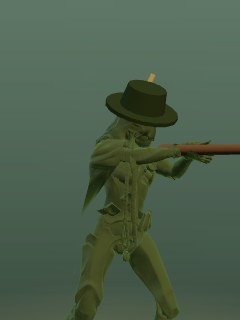
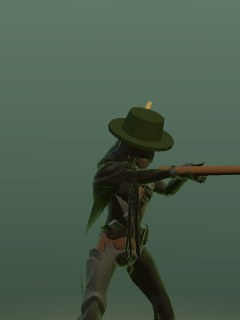
Figuren-Feinschliff: Kleidung umfärben statt einfarbig
Die umgebauten Helden behalten ihre Textur: Kleidung wird beim Laden
umgefärbt (recolor.ts, Helligkeit bleibt, Haut und Gesicht bleiben),
statt die ganze Figur einfarbig zu machen. Kapitän Tiefe ganz
eingefärbt, Frieda auf einer Figur ohne Kapuze, Requisiten (Glocke,
Besen, Nudelholz, Kochmütze) angepasst, Porträts mit Blickwinkel je
Held neu gerendert. Test für die Farbrechnung.

Claude-Session: https://claude.ai/code/session_01AwLQVZKdjb6HxQgRtAF2Ln

Changed region(s): [[0.2917, 0.2188, 1.0, 1.0]]

diff --git a/src/client/units.ts b/src/client/units.ts
@@ -3,6 +3,7 @@ import type { BuffRing } from './buffrings';
 import { tickMarks } from './hpticks';
 import type { Hero, HeroDef, Minion, Unit, Zombie, ZombieDef } from '../sim/types';
 import { instantiate, type ModelInstance, type RiggedModel } from './models';
+import { recolorTexture } from './recolor';
 import { groundGlow } from './nightdecor';
 import type { Snapshot } from './renderer';
 
@@ -71,6 +72,10 @@ interface ModelLook {
   headOffset?: number;
   /** Einfarbig statt Textur (z. B. heller Imkeranzug); Hautfarbe bleibt unter Hut und Schleier verborgen. */
   plain?: number;
+  /** Kleidung umfärben, Haut und Gesicht bleiben (Textur bleibt, siehe recolor.ts). */
+  recolor?: { color: number; strength?: number; keepSkin?: boolean; flat?: number };
+  /** Farbe je Material (Figuren mit getrennten Materialien, z. B. Hose, Schuhe). */
+  materialColors?: Record<string, number>;
   /** Schwebehöhe über dem Boden (Hornissen). */
   lift?: number;
 }
@@ -137,21 +142,21 @@ const HERO_LOOKS: Record<string, ModelLook> = {
   libero: { model: 'libero', move: 'run', idle: 'idle', refSpeed: 5.6, scale: 1.02, tint: [1, 1, 1], attacks: ['attack'], attackStart: 0.42 },
   pirat: { model: 'pirat', move: 'run', idle: 'idle', refSpeed: 5.5, scale: 1.03, tint: [1, 1, 1], attacks: ['attack'], attackStart: 0.5, props: ['hook'] },
   // Lotte: kleines Mädchen (verkleinerte Figur) im gelben Regenmantel, Zöpfe, Teddy im Arm
-  lotte: { model: 'schlaeferin', move: 'run', idle: 'idle', refSpeed: 4.6, scale: 0.72, tint: [1, 1, 1], plain: 0xf0c020, attacks: ['attack'], attackStart: 0.3, props: ['pigtails', 'teddy'] },
+  lotte: { model: 'schlaeferin', move: 'run', idle: 'idle', refSpeed: 4.6, scale: 0.72, tint: [1, 1, 1], recolor: { color: 0xf0c020, flat: 0.4 }, attacks: ['attack'], attackStart: 0.3, props: ['pigtails', 'teddy'] },
   // Taucher Kapitän Tiefe: schwerer Anzug (einfarbig), Messinghelm, Sauerstoffflasche, Harpune
-  taucher: { model: 'rotschopf', move: 'run', idle: 'idle', refSpeed: 4.8, scale: 1.08, tint: [1, 1, 1], plain: 0x34423c, attacks: ['attack'], attackStart: 0.25, props: ['divehelm', 'airtank', 'harpoongun'] },
+  taucher: { model: 'rotschopf', move: 'run', idle: 'idle', refSpeed: 4.8, scale: 1.08, tint: [1, 1, 1], recolor: { color: 0x3a4a40, keepSkin: false }, materialColors: { MaleBruteA_Shoes6: 0x1e1e1c }, attacks: ['attack'], attackStart: 0.25, props: ['divehelm', 'airtank', 'harpoongun'] },
   // Goldschmied Aurelius: umgebaute Figur mit runder Brille, Lederschürze und Lupe am Gürtel
   goldschmied: { model: 'pirat', move: 'run', idle: 'idle', refSpeed: 5.3, scale: 1.0, tint: [0.85, 0.8, 0.72], attacks: ['attack'], attackStart: 0.3, props: ['glasses', 'apron', 'loupe'] },
   // Imker: umgebaute Figur (heller Anzug), Imkerhut mit Schleier, Smoker in der Hand
-  imker: { model: 'libero', move: 'run', idle: 'idle', refSpeed: 5.4, scale: 1.0, tint: [1, 1, 1], plain: 0xddd6c0, attacks: ['attack'], attackStart: 0.5, props: ['beehat', 'smoker'], headOffset: 0.02 },
+  imker: { model: 'libero', move: 'run', idle: 'idle', refSpeed: 5.4, scale: 1.0, tint: [1, 1, 1], recolor: { color: 0xe4ddc4, flat: 0.65 }, attacks: ['attack'], attackStart: 0.5, props: ['beehat', 'smoker'], headOffset: 0.02 },
   // Glöcknerin Hedwig: umgebaute Figur (violettes Gewand), Haube, Schultertuch, Handglocke
-  gloecknerin: { model: 'schlaeferin', move: 'run', idle: 'idle', refSpeed: 5.1, scale: 0.96, tint: [1, 1, 1], plain: 0x4b3d6e, attacks: ['attack'], attackStart: 0.3, props: ['bonnet', 'shawl', 'handbell'] },
+  gloecknerin: { model: 'schlaeferin', move: 'run', idle: 'idle', refSpeed: 5.1, scale: 0.96, tint: [1, 1, 1], recolor: { color: 0x5a4a86 }, attacks: ['attack'], attackStart: 0.3, props: ['bonnet', 'shawl', 'handbell'] },
   // Förster Bruno: umgebaute Figur (grüne Jacke), Filzhut mit Feder, Axt
-  foerster: { model: 'pirat', move: 'run', idle: 'idle', refSpeed: 5.0, scale: 1.1, tint: [1, 1, 1], plain: 0x4a5a2c, attacks: ['attack'], attackStart: 0.35, props: ['felthat', 'axe'] },
+  foerster: { model: 'pirat', move: 'run', idle: 'idle', refSpeed: 5.0, scale: 1.1, tint: [1, 1, 1], recolor: { color: 0x55692f }, attacks: ['attack'], attackStart: 0.35, props: ['felthat', 'axe'] },
   // Schornsteinfeger Kasimir: umgebaute Figur (schwarzer Anzug), Zylinder, Kaminbesen
-  schornsteinfeger: { model: 'libero', move: 'run', idle: 'idle', refSpeed: 5.4, scale: 1.0, tint: [1, 1, 1], plain: 0x222226, attacks: ['attack'], attackStart: 0.42, props: ['tophat', 'broom'] },
-  // Bäckerin Frieda: umgebaute Figur (helles Kleid), Kochmütze, Schürze, Nudelholz
-  baeckerin: { model: 'schlaeferin', move: 'run', idle: 'idle', refSpeed: 5.3, scale: 1.0, tint: [1, 1, 1], plain: 0xc9a27a, attacks: ['attack'], attackStart: 0.3, props: ['chefhat', 'apron', 'rollingpin'] },
+  schornsteinfeger: { model: 'libero', move: 'run', idle: 'idle', refSpeed: 5.4, scale: 1.0, tint: [1, 1, 1], recolor: { color: 0x2c2c32, strength: 0.9 }, attacks: ['attack'], attackStart: 0.42, props: ['tophat', 'broom'] },
+  // Bäckerin Frieda: umgebaute Figur ohne Kapuze (helles Kleid), Kochmütze, Schürze, Nudelholz
+  baeckerin: { model: 'libero', move: 'run', idle: 'idle', refSpeed: 5.3, scale: 1.0, tint: [1, 1, 1], recolor: { color: 0xece2cc, flat: 0.6 }, attacks: ['attack'], attackStart: 0.3, props: ['chefhat', 'apron', 'rollingpin'] },
   gaertnerin: { model: 'gaertnerin', move: 'run', idle: 'idle', refSpeed: 5.3, scale: 0.98, tint: [1, 1, 1], attacks: ['attack'], attackStart: 0.4, impact: { attack: 0.78 } },
 };
 
@@ -358,9 +363,19 @@ export class UnitView {
     inst.root.position.y = look.lift ?? 0;
     this.body.add(inst.root);
     for (const m of inst.materials) {
+      const std = m as THREE.MeshStandardMaterial;
       if (look.plain !== undefined) {
-        (m as THREE.MeshStandardMaterial).map = null;
+        std.map = null;
         m.color.set(look.plain);
+        m.needsUpdate = true;
+      } else if (look.recolor && std.map) {
+        std.map = recolorTexture(std.map, look.recolor.color, look.recolor.strength, look.recolor.keepSkin, look.recolor.flat);
+        m.needsUpdate = true;
+      }
+      const own = look.materialColors?.[m.name];
+      if (own !== undefined) {
+        std.map = null;
+        m.color.set(own);
         m.needsUpdate = true;
       }
       this.materials.push(m);
@@ -512,9 +527,9 @@ export class UnitView {
         break;
       case 'handbell':
         // Messing-Handglocke mit Holzgriff
-        add(new THREE.CylinderGeometry(0.02, 0.025, 0.14, 8), 0x6b4a2b, 0, 0.13, 0.04);
-        add(new THREE.ConeGeometry(0.1, 0.14, 14, 1, true), 0xc9a24a, 0, 0.0, 0.04, 0x3a2a00);
-        add(new THREE.SphereGeometry(0.025, 6, 4), 0x8a6a2a, 0, -0.07, 0.04);
+        add(new THREE.CylinderGeometry(0.015, 0.018, 0.1, 8), 0x6b4a2b, 0, 0.09, 0.03);
+        add(new THREE.ConeGeometry(0.045, 0.07, 14, 1, true), 0xc9a24a, 0, 0.0, 0.03, 0x3a2a00);
+        add(new THREE.SphereGeometry(0.018, 6, 4), 0x8a6a2a, 0, -0.05, 0.03);
         break;
       case 'felthat':
         // Grüner Filzhut mit Krempe und Feder
@@ -562,14 +577,14 @@ export class UnitView {
         break;
       case 'chefhat':
         // Weiße Kochmütze
-        add(new THREE.CylinderGeometry(0.12, 0.13, 0.12, 14), 0xfaf8f2, 0, 0.24, -0.04);
-        add(new THREE.SphereGeometry(0.15, 12, 8), 0xfaf8f2, 0, 0.37, -0.04);
+        add(new THREE.CylinderGeometry(0.11, 0.12, 0.11, 14), 0xfaf8f2, 0, 0.17, 0.0);
+        add(new THREE.SphereGeometry(0.14, 12, 8), 0xfaf8f2, 0, 0.29, 0.0);
         break;
       case 'rollingpin':
         // Nudelholz mit zwei Griffen
-        add(new THREE.CylinderGeometry(0.045, 0.045, 0.42, 10), 0xd8b080, 0, 0.3, 0);
-        add(new THREE.CylinderGeometry(0.02, 0.02, 0.16, 6), 0xa07040, 0, 0.05, 0);
-        add(new THREE.CylinderGeometry(0.02, 0.02, 0.12, 6), 0xa07040, 0, 0.56, 0);
+        add(new THREE.CylinderGeometry(0.032, 0.032, 0.3, 10), 0xd8b080, 0, 0.22, 0);
+        add(new THREE.CylinderGeometry(0.015, 0.015, 0.1, 6), 0xa07040, 0, 0.03, 0);
+        add(new THREE.CylinderGeometry(0.015, 0.015, 0.08, 6), 0xa07040, 0, 0.41, 0);
         break;
       case 'tophat':
         // Schwarzer Zylinder
@@ -580,7 +595,7 @@ export class UnitView {
       case 'broom':
         // Kaminbesen: Seil mit runder Bürste und Kugel
         add(new THREE.CylinderGeometry(0.012, 0.012, 0.5, 5), 0x8a7a5a, 0, 0.15, 0);
-        add(new THREE.SphereGeometry(0.12, 10, 6), 0x1a1a1a, 0, 0.45, 0);
+        add(new THREE.SphereGeometry(0.075, 10, 6), 0x1a1a1a, 0, 0.42, 0);
         add(new THREE.SphereGeometry(0.05, 8, 6), 0x5a5a60, 0, -0.12, 0);
         break;
       case 'scythe':

diff --git a/src/client/recolor.ts b/src/client/recolor.ts
@@ -1,0 +1,93 @@
+import * as THREE from 'three';
+
+/**
+ * Umfärben einer Figurentextur: Kleidung bekommt eine neue Farbe, Haut,
+ * Augen und sehr helle bzw. dunkle Details bleiben. Die Helligkeit jedes
+ * Pixels bleibt erhalten, damit Falten und Nähte sichtbar bleiben.
+ */
+
+/** Farbton (0–360), Sättigung und Helligkeit (0–1) eines RGB-Pixels (0–255). */
+export function toHsv(r: number, g: number, b: number): [number, number, number] {
+  const R = r / 255;
+  const G = g / 255;
+  const B = b / 255;
+  const max = Math.max(R, G, B);
+  const min = Math.min(R, G, B);
+  const d = max - min;
+  let h = 0;
+  if (d > 0) {
+    if (max === R) h = ((G - B) / d) % 6;
+    else if (max === G) h = (B - R) / d + 2;
+    else h = (R - G) / d + 4;
+    h *= 60;
+    if (h < 0) h += 360;
+  }
+  return [h, max === 0 ? 0 : d / max, max];
+}
+
+/** Hautton? (rötlich-gelber Farbton, mittlere Sättigung, hell genug – dunkles Leder zählt nicht) */
+export function isSkin(r: number, g: number, b: number): boolean {
+  const [h, s, v] = toHsv(r, g, b);
+  return h >= 8 && h <= 40 && s >= 0.15 && s <= 0.55 && v >= 0.5 && r > g && g >= b;
+}
+
+/** Wahrgenommene Helligkeit 0–1. */
+export function luma(r: number, g: number, b: number): number {
+  return (0.299 * r + 0.587 * g + 0.114 * b) / 255;
+}
+
+/**
+ * Einen Pixel umfärben: Zielfarbe mit der Helligkeit des Pixels (Mittelwert
+ * 0.5 → Zielfarbe), dann mit strength überblenden. Haut und sehr helle bzw.
+ * sehr dunkle Pixel bleiben (keepSkin). flat (0–1) zieht die Helligkeit zur
+ * Mitte, damit dunkle Stoffe die Zielfarbe annehmen (z. B. heller Anzug).
+ */
+export function recolorPixel(r: number, g: number, b: number, target: [number, number, number], strength = 0.85, keepSkin = true, flat = 0): [number, number, number] {
+  const l = luma(r, g, b);
+  if (keepSkin && (isSkin(r, g, b) || l > 0.93 || l < 0.04)) return [r, g, b];
+  // Helligkeit: 0.5 = Zielfarbe, darunter dunkler, darüber heller; flat gleicht an (helle Anzüge)
+  const k = (l * (1 - flat) + 0.5 * flat) * 2;
+  const mix = (t: number) => (k <= 1 ? t * k : t + (255 - t) * (k - 1));
+  const out: [number, number, number] = [mix(target[0]), mix(target[1]), mix(target[2])];
+  return [
+    Math.round(r + (out[0] - r) * strength),
+    Math.round(g + (out[1] - g) * strength),
+    Math.round(b + (out[2] - b) * strength),
+  ];
+}
+
+const cache = new Map<string, THREE.Texture>();
+
+/** Umgefärbte Kopie einer Textur (zwischengespeichert je Bild und Farbe). */
+export function recolorTexture(map: THREE.Texture, color: number, strength = 0.85, keepSkin = true, flat = 0): THREE.Texture {
+  const key = `${map.uuid}|${color}|${strength}|${keepSkin}|${flat}`;
+  const hit = cache.get(key);
+  if (hit) return hit;
+  const img = map.image as (CanvasImageSource & { width: number; height: number }) | undefined;
+  if (!img || !img.width || typeof document === 'undefined') return map;
+  const canvas = document.createElement('canvas');
+  canvas.width = img.width;
+  canvas.height = img.height;
+  const ctx = canvas.getContext('2d');
+  if (!ctx) return map;
+  ctx.drawImage(img, 0, 0);
+  const data = ctx.getImageData(0, 0, canvas.width, canvas.height);
+  const px = data.data;
+  const c = new THREE.Color(color);
+  const target: [number, number, number] = [c.r * 255, c.g * 255, c.b * 255];
+  for (let i = 0; i < px.length; i += 4) {
+    const [r, g, b] = recolorPixel(px[i], px[i + 1], px[i + 2], target, strength, keepSkin, flat);
+    px[i] = r;
+    px[i + 1] = g;
+    px[i + 2] = b;
+  }
+  ctx.putImageData(data, 0, 0);
+  const tex = new THREE.CanvasTexture(canvas);
+  tex.flipY = map.flipY;
+  tex.colorSpace = map.colorSpace;
+  tex.wrapS = map.wrapS;
+  tex.wrapT = map.wrapT;
+  tex.channel = map.channel;
+  cache.set(key, tex);
+  return tex;
+}

diff --git a/portrait.html b/portrait.html
@@ -22,19 +22,23 @@ scene.add(new THREE.HemisphereLight(0xcfe3ff, 0x2a2a1a, 1.4));
 const key = new THREE.DirectionalLight(0xffe2b0, 2.4); key.position.set(2, 3, 3); scene.add(key);
 const rim = new THREE.DirectionalLight(0x9fc9ff, 1.6); rim.position.set(-3, 2, -2); scene.add(rim);
 const models = new Map();
-const looks = { imker: 'libero', goldschmied: 'pirat', lotte: 'schlaeferin', taucher: 'rotschopf', gloecknerin: 'schlaeferin', foerster: 'pirat', schornsteinfeger: 'libero', baeckerin: 'schlaeferin' };
+const looks = { imker: 'libero', goldschmied: 'pirat', lotte: 'schlaeferin', taucher: 'rotschopf', gloecknerin: 'schlaeferin', foerster: 'pirat', schornsteinfeger: 'libero', baeckerin: 'libero' };
 const modelName = looks[id] ?? id;
 models.set(modelName, await loadRiggedModel(`/models/${modelName}.glb`, 1.8));
 const hero = { id: 1, defId: id, pos: { x: 0, y: 0 }, radius: def.radius, facing: Math.PI / 2, buffs: [], hp: 1, maxHp: 1 };
 const view = heroView(hero, def, false, models);
 view.bar.visible = false; view.ring.visible = false;
 view.group.traverse((o) => { if (o.isLight || o.name === 'glow') o.visible = false; });
-const rot = Number(new URLSearchParams(location.search).get('rot') ?? 0.4);
+// Kamera je Held (Drehung der Figur, Abstand/Höhe k), damit Kopf und Waffe im Bild sind; URL-Werte gehen vor
+const PORTRAIT_VIEW = { taucher: { rot: 0.55, k: 1.55 }, goldschmied: { rot: 0.5, k: 0.95 }, lotte: { rot: 0.5, k: 0.78 }, foerster: { rot: -0.2, k: 1.25 }, schornsteinfeger: { rot: 0.15, k: 1.15 }, baeckerin: { rot: 0.15, k: 1.12 }, gloecknerin: { rot: 0.4, k: 1.05 }, imker: { rot: 0.35, k: 1.05 } };
+const view0 = PORTRAIT_VIEW[id] ?? {};
+const q = new URLSearchParams(location.search);
+const rot = Number(q.get('rot') ?? view0.rot ?? 0.4);
 view.group.rotation.y = rot;
 scene.add(view.group);
 for (let i = 0; i < 40; i++) view.animate(0.05, 0, false);
 const cam = new THREE.PerspectiveCamera(30, W / H, 0.1, 50);
-const k = Number(new URLSearchParams(location.search).get('k') ?? 1);
+const k = Number(q.get('k') ?? view0.k ?? 1);
 cam.position.set(0.2 * k, 1.55 * k, 3.0 * k); cam.lookAt(0, 1.3 * k, 0);
 renderer.render(scene, cam);
 window.done = true;

diff --git a/tests/client/recolor.test.ts b/tests/client/recolor.test.ts
@@ -1,0 +1,31 @@
+import { describe, expect, it } from 'vitest';
+import { isSkin, luma, recolorPixel } from '../../src/client/recolor';
+
+const GREEN: [number, number, number] = [60, 120, 50];
+
+describe('Figuren umfärben', () => {
+  it('erkennt helle Hauttöne, aber kein dunkles Leder und kein Grau', () => {
+    expect(isSkin(224, 172, 140)).toBe(true); // helle Haut
+    expect(isSkin(190, 130, 95)).toBe(true); // gebräunt
+    expect(isSkin(90, 55, 30)).toBe(false); // dunkles Leder
+    expect(isSkin(128, 128, 128)).toBe(false); // grauer Stoff
+  });
+
+  it('Haut bleibt, Stoff nimmt die Zielfarbe an', () => {
+    expect(recolorPixel(224, 172, 140, GREEN)).toEqual([224, 172, 140]);
+    const [r, g, b] = recolorPixel(128, 128, 128, GREEN, 1);
+    expect(g).toBeGreaterThan(r);
+    expect(g).toBeGreaterThan(b);
+    // ohne keepSkin wird auch Haut umgefärbt
+    expect(recolorPixel(224, 172, 140, GREEN, 1, false)).not.toEqual([224, 172, 140]);
+  });
+
+  it('Helligkeitsreihenfolge bleibt (Falten sichtbar), flat gleicht an', () => {
+    const dark = recolorPixel(60, 60, 60, GREEN, 1);
+    const light = recolorPixel(180, 180, 180, GREEN, 1);
+    expect(luma(...light)).toBeGreaterThan(luma(...dark));
+    const darkFlat = recolorPixel(60, 60, 60, GREEN, 1, true, 0.8);
+    expect(luma(...darkFlat)).toBeGreaterThan(luma(...dark));
+    expect(luma(...recolorPixel(180, 180, 180, GREEN, 1, true, 0.8))).toBeGreaterThan(luma(...darkFlat));
+  });
+});

diff --git a/README.md b/README.md
@@ -481,8 +481,8 @@ Trolle kämpfen selbst; ihr Schaden zählt für Lotte. Zombies greifen Trolle an
 - **Ofenhitze:** 5 s lang schneller zuschlagen (+30–50 %) und laufen.
 - **Ultimate „Großes Backblech“:** Nach kurzer Warnung schlägt das Blech auf; viel Schaden und Betäubung im Kreis von 4 m.
 
-Die neuen Helden sind vorerst umgebaute vorhandene Figuren. Der Imker hat einen hellen Anzug mit Imkerhut, Schleier und Smoker. Aurelius trägt runde Brille, Lederschürze und eine Lupe am Gürtel. Lotte ist eine verkleinerte Figur im gelben Mantel mit Zöpfen und Teddy. Die Trolle sind grün eingefärbte Kürbis-Hulks. Kapitän Tiefe trägt einen schweren Anzug, einen Messinghelm mit Bullauge, eine Sauerstoffflasche und eine Harpune. Hedwig trägt ein violettes Gewand mit weißer Haube und Schultertuch und läutet eine Messing-Handglocke. Bruno trägt eine grüne Jacke, einen Filzhut mit Feder und eine Holzfälleraxt. Kasimir trägt einen schwarzen Anzug mit Zylinder und einen Kaminbesen. Frieda trägt Kochmütze und Schürze und schwingt ein Nudelholz.
-Die Figur ist vorerst eine umgefärbte vorhandene Figur mit Imkerhut, Schleier und Smoker. Das Porträt ist aus dem Modell gerendert (`portrait.html?hero=imker` im Entwicklungsserver, Screenshot per Playwright).
+Die neuen Helden sind umgebaute vorhandene Figuren. Ihre Kleidung wird beim Laden umgefärbt (`src/client/recolor.ts`): Die Textur bleibt erhalten, damit Falten und Nähte sichtbar bleiben, und Haut und Gesicht behalten ihre Farbe. Kapitän Tiefe wird ganz eingefärbt (Anzug unter dem Helm). Der Imker hat einen hellen Anzug mit Imkerhut, Schleier und Smoker. Aurelius trägt runde Brille, Lederschürze und eine Lupe am Gürtel. Lotte ist eine verkleinerte Figur im gelben Mantel mit Zöpfen und Teddy. Die Trolle sind grün eingefärbte Kürbis-Hulks. Kapitän Tiefe trägt einen schweren Anzug, einen Messinghelm mit Bullauge, eine Sauerstoffflasche und eine Harpune. Hedwig trägt ein violettes Gewand mit weißer Haube und Schultertuch und läutet eine Messing-Handglocke. Bruno trägt eine grüne Jacke, einen Filzhut mit Feder und eine Holzfälleraxt. Kasimir trägt einen schwarzen Anzug mit Zylinder und einen Kaminbesen. Frieda (Figur ohne Kapuze) trägt Kochmütze und Schürze und schwingt ein Nudelholz.
+Die Porträts sind aus dem Modell gerendert (`portrait.html?hero=<id>` im Entwicklungsserver, Screenshot per Playwright; Blickwinkel je Held in `PORTRAIT_VIEW`).
 
 Details in `docs/SPEC.md` (Abschnitt 6), Werte in `data/heroes.json`.
 
